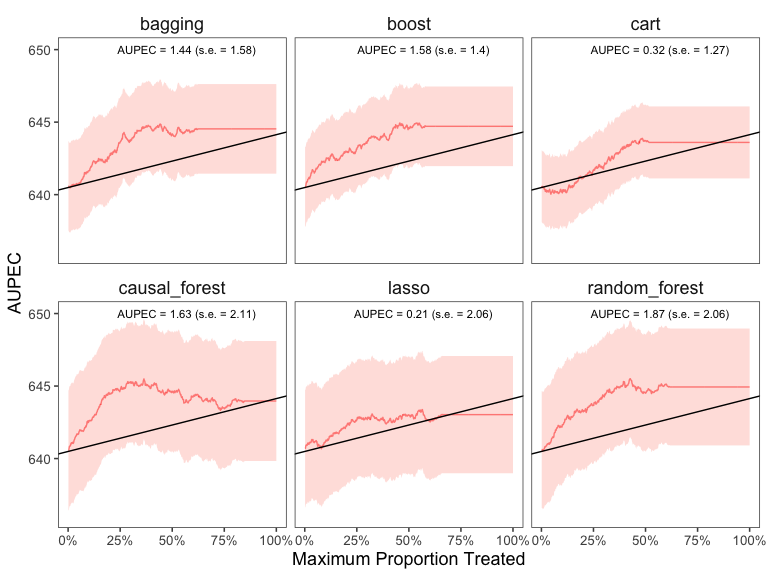
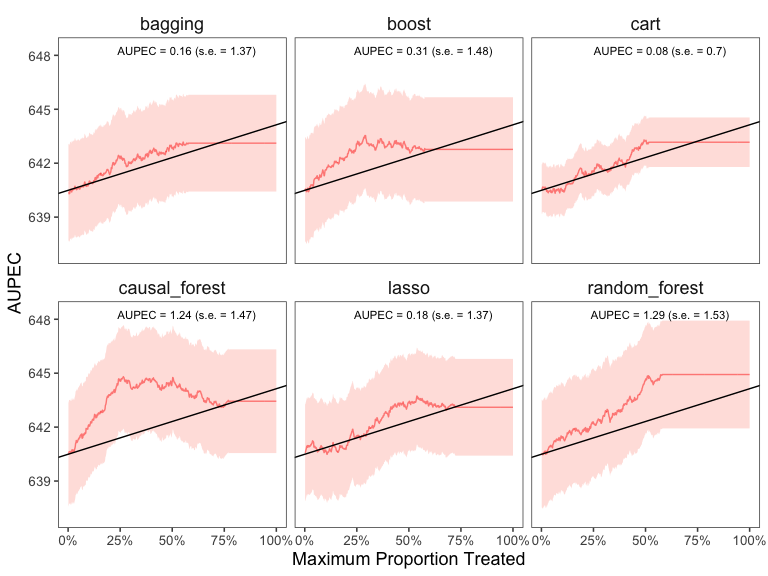
add package caret to existing structure

diff --git a/README.md b/README.md
@@ -48,8 +48,8 @@ will identify the top 20% of units who benefit from the treatment most
 and assign them to with the treatment. We train the model through sample
 splitting, with the `ratio` between the train and test sets determined
 by the ratio argument. Specifically, we allocate 70% of the data to
-train the model, while the remaining 30% is used as testing data (ratio
-= 0.7).
+train the model, while the remaining 30% is used as testing data
+(`ratio` = 0.7).
 
 ``` r
 library(tidyverse)
@@ -69,6 +69,7 @@ covariates <-  star %>% dplyr::select(-c("g3tlangss",
                 colnames()
 
 # estimate ITR 
+set.seed(2021)
 fit <- run_itr(outcome = outcomes,
                treatment = treatment,
                covariates = covariates,
@@ -77,6 +78,17 @@ fit <- run_itr(outcome = outcomes,
                plim = 0.2,
                ratio = 0.7)
 #> Evaluate ITR under sample splitting ...
+
+# alternatively (with caret package)
+# fit <- run_itr(outcome = outcomes,
+#                treatment = treatment,
+#                covariates = covariates,
+#                data = star_df,
+#                algorithms = c("caret"),
+#                plim = 0.2,
+#                ratio = 0.7,
+#               trainControl_method = "repeatedcv",
+#               train_method = "gbm")
 
 # evaluate ITR 
 est <- estimate_itr(fit)
@@ -100,26 +112,26 @@ design are given in [Imai and Li
 summary(est)
 #> ── PAPE ────────────────────────────────────────────────────────────────────────
 #>   estimate std.deviation     algorithm statistic p.value
-#> 1     0.56           1.4 causal_forest       0.4    0.69
+#> 1     0.78           1.4 causal_forest      0.57    0.57
 #> 
 #> ── PAPEp ───────────────────────────────────────────────────────────────────────
 #>   estimate std.deviation     algorithm statistic p.value
-#> 1      1.4           1.2 causal_forest       1.1    0.25
+#> 1      2.8           1.2 causal_forest       2.3   0.024
 #> 
 #> ── PAPDp ───────────────────────────────────────────────────────────────────────
 #> data frame with 0 columns and 0 rows
 #> 
 #> ── AUPEC ───────────────────────────────────────────────────────────────────────
 #>   estimate std.deviation     algorithm statistic p.value
-#> 1      1.2           1.1 causal_forest       1.2    0.24
+#> 1     0.58             1 causal_forest      0.56    0.58
 #> 
 #> ── GATE ────────────────────────────────────────────────────────────────────────
 #>   estimate std.deviation     algorithm group statistic p.value upper lower
-#> 1      -76           108 causal_forest     1     -0.70   0.483  -172   182
-#> 2     -219           107 causal_forest     2     -2.03   0.042  -171   182
-#> 3      160           108 causal_forest     3      1.49   0.137  -172   183
-#> 4      106           109 causal_forest     4      0.97   0.333  -175   185
-#> 5       55           107 causal_forest     5      0.51   0.608  -171   181
+#> 1     -192           106 causal_forest     1      -1.8   0.070  -168   182
+#> 2      184           109 causal_forest     2       1.7   0.092  -173   187
+#> 3      227           109 causal_forest     3       2.1   0.038  -172   186
+#> 4     -238           107 causal_forest     4      -2.2   0.026  -168   182
+#> 5       54           107 causal_forest     5       0.5   0.615  -170   184
 ```
 
 We plot the estimated Area Under the Prescriptive Effect Curve for the
@@ -142,6 +154,7 @@ folds to get a more stable model performance.
 
 ``` r
 # estimate ITR 
+set.seed(2021)
 fit_cv <- run_itr(outcome = outcomes,
                treatment = treatment,
                covariates = covariates,
@@ -163,26 +176,26 @@ We present the results with 3-folds cross validation and plot the AUPEC.
 summary(est_cv)
 #> ── PAPE ────────────────────────────────────────────────────────────────────────
 #>   estimate std.deviation     algorithm statistic p.value
-#> 1      1.1           1.3 causal_forest      0.89    0.37
+#> 1     0.72          0.87 causal_forest      0.82    0.41
 #> 
 #> ── PAPEp ───────────────────────────────────────────────────────────────────────
 #>   estimate std.deviation     algorithm statistic p.value
-#> 1      1.3          0.69 causal_forest       1.9   0.062
+#> 1      2.9          0.65 causal_forest       4.4 8.6e-06
 #> 
 #> ── PAPDp ───────────────────────────────────────────────────────────────────────
 #> data frame with 0 columns and 0 rows
 #> 
 #> ── AUPEC ───────────────────────────────────────────────────────────────────────
 #>   estimate std.deviation     algorithm statistic p.value
-#> 1      1.4          0.67 causal_forest       2.1   0.033
+#> 1      1.4           1.5 causal_forest      0.92    0.36
 #> 
 #> ── GATE ────────────────────────────────────────────────────────────────────────
 #>   estimate std.deviation     algorithm group statistic p.value upper lower
-#> 1       12            59 causal_forest     1      0.21    0.84   -93   101
-#> 2      -47            85 causal_forest     2     -0.55    0.58  -135   143
-#> 3       18            59 causal_forest     3      0.31    0.76   -94   101
-#> 4      -61           101 causal_forest     4     -0.61    0.55  -162   169
-#> 5       95           100 causal_forest     5      0.95    0.34  -162   169
+#> 1     -101            59 causal_forest     1     -1.71   0.087   -93   100
+#> 2       37            59 causal_forest     2      0.62   0.536   -94   101
+#> 3       39            59 causal_forest     3      0.67   0.506   -93   101
+#> 4       14            59 causal_forest     4      0.23   0.816   -94   101
+#> 5       29           101 causal_forest     5      0.29   0.773  -162   169
 ```
 
 ``` r
@@ -218,6 +231,7 @@ outcomes <- c("g3tlangss","g3treadss","g3tmathss")
 covariates <-  star %>% dplyr::select(-c("g3tlangss","g3treadss","g3tmathss","treatment")) %>% colnames()
 
 # train the model
+set.seed(2021)
 fit_cv <- run_itr(outcome = outcomes,
                treatment = "treatment",
                covariates = covariates,
@@ -233,7 +247,9 @@ fit_cv <- run_itr(outcome = outcomes,
                   "bagging"),
                plim = 0.2,
                n_folds = 3)
-#> Evaluate ITR with cross-validation ...Evaluate ITR with cross-validation ...Evaluate ITR with cross-validation ...
+#> Evaluate ITR with cross-validation ...
+#> Evaluate ITR with cross-validation ...
+#> Evaluate ITR with cross-validation ...
 ```
 
 ``` r
@@ -246,81 +262,81 @@ est_cv <- estimate_itr(fit_cv)
 summary(est_cv, outcome = "g3tlangss")
 #> ── PAPE ────────────────────────────────────────────────────────────────────────
 #>   estimate std.deviation     algorithm statistic p.value
-#> 1     0.88          1.08 causal_forest      0.81  0.4155
-#> 2     0.25          0.84         lasso      0.29  0.7696
-#> 3     2.24          0.87         boost      2.57  0.0102
-#> 4     2.28          0.80 random_forest      2.86  0.0043
-#> 5     1.24          0.92          cart      1.34  0.1790
-#> 6     1.86          1.26       bagging      1.48  0.1383
+#> 1     0.24          1.02 causal_forest      0.24   0.812
+#> 2     0.17          1.07         lasso      0.16   0.871
+#> 3     0.30          1.35         boost      0.23   0.822
+#> 4     2.37          1.01 random_forest      2.34   0.019
+#> 5     0.85          0.98          cart      0.87   0.382
+#> 6     0.59          0.99       bagging      0.59   0.555
 #> 
 #> ── PAPEp ───────────────────────────────────────────────────────────────────────
 #>   estimate std.deviation     algorithm statistic p.value
-#> 1     3.17          0.74 causal_forest      4.29 1.8e-05
-#> 2     0.95          0.99         lasso      0.96 3.4e-01
-#> 3     1.67          0.79         boost      2.11 3.5e-02
-#> 4     1.93          0.78 random_forest      2.48 1.3e-02
-#> 5    -0.15          0.88          cart     -0.17 8.7e-01
-#> 6     1.41          0.78       bagging      1.80 7.1e-02
+#> 1     2.62          0.65 causal_forest      4.05 5.1e-05
+#> 2    -0.20          0.63         lasso     -0.33 7.4e-01
+#> 3     1.18          0.63         boost      1.87 6.2e-02
+#> 4     0.58          0.84 random_forest      0.69 4.9e-01
+#> 5     0.27          0.62          cart      0.44 6.6e-01
+#> 6     0.22          1.15       bagging      0.19 8.5e-01
 #> 
 #> ── PAPDp ───────────────────────────────────────────────────────────────────────
 #>    estimate std.deviation                     algorithm statistic p.value
-#> 1      2.22          0.93         causal_forest x lasso      2.38   0.017
-#> 2      1.50          0.75         causal_forest x boost      1.98   0.047
-#> 3      1.24          0.62 causal_forest x random_forest      2.00   0.045
-#> 4      3.31          1.35          causal_forest x cart      2.46   0.014
-#> 5      1.76          0.71       causal_forest x bagging      2.47   0.014
-#> 6     -0.72          0.73                 lasso x boost     -0.99   0.320
-#> 7     -0.98          1.20         lasso x random_forest     -0.82   0.411
-#> 8      1.09          1.02                  lasso x cart      1.07   0.283
-#> 9     -0.46          0.81               lasso x bagging     -0.57   0.570
-#> 10    -0.26          0.76         boost x random_forest     -0.34   0.732
-#> 11     1.82          1.57                  boost x cart      1.16   0.248
-#> 12     0.26          1.09               boost x bagging      0.24   0.810
-#> 13     2.08          0.96          random_forest x cart      2.16   0.031
-#> 14     0.52          0.50       random_forest x bagging      1.04   0.298
-#> 15    -1.55          1.21                cart x bagging     -1.29   0.197
+#> 1     2.824          0.96         causal_forest x lasso     2.937 0.00331
+#> 2     1.437          0.75         causal_forest x boost     1.928 0.05391
+#> 3     2.045          0.87 causal_forest x random_forest     2.341 0.01925
+#> 4     2.347          0.88          causal_forest x cart     2.673 0.00752
+#> 5     2.400          0.70       causal_forest x bagging     3.409 0.00065
+#> 6    -1.387          1.09                 lasso x boost    -1.275 0.20220
+#> 7    -0.779          0.81         lasso x random_forest    -0.965 0.33472
+#> 8    -0.478          0.89                  lasso x cart    -0.536 0.59211
+#> 9    -0.424          0.88               lasso x bagging    -0.484 0.62841
+#> 10    0.608          0.74         boost x random_forest     0.817 0.41401
+#> 11    0.910          0.89                  boost x cart     1.024 0.30601
+#> 12    0.963          0.68               boost x bagging     1.409 0.15869
+#> 13    0.302          0.94          random_forest x cart     0.322 0.74776
+#> 14    0.355          0.51       random_forest x bagging     0.695 0.48723
+#> 15    0.054          1.19                cart x bagging     0.045 0.96388
 #> 
 #> ── AUPEC ───────────────────────────────────────────────────────────────────────
 #>   estimate std.deviation     algorithm statistic p.value
-#> 1     1.63           2.1 causal_forest      0.77    0.44
-#> 2     0.21           2.1         lasso      0.10    0.92
-#> 3     1.58           1.4         boost      1.13    0.26
-#> 4     1.87           2.1 random_forest      0.91    0.36
-#> 5     0.32           1.3          cart      0.25    0.80
-#> 6     1.44           1.6       bagging      0.91    0.36
+#> 1    1.238           1.5 causal_forest      0.84    0.40
+#> 2    0.178           1.4         lasso      0.13    0.90
+#> 3    0.309           1.5         boost      0.21    0.83
+#> 4    1.294           1.5 random_forest      0.85    0.40
+#> 5    0.076           0.7          cart      0.11    0.91
+#> 6    0.163           1.4       bagging      0.12    0.91
 #> 
 #> ── GATE ────────────────────────────────────────────────────────────────────────
 #>    estimate std.deviation     algorithm group statistic p.value upper lower
-#> 1    -58.28           102 causal_forest     1   -0.5728    0.57  -164   171
-#> 2     25.77            65 causal_forest     2    0.3995    0.69  -103   110
-#> 3      0.42            96 causal_forest     3    0.0044    1.00  -154   161
-#> 4     13.23            91 causal_forest     4    0.1454    0.88  -146   153
-#> 5     36.75            82 causal_forest     5    0.4468    0.66  -132   139
-#> 6     70.69            60         lasso     1    1.1850    0.24   -95   102
-#> 7    -60.90            91         lasso     2   -0.6728    0.50  -145   152
-#> 8     31.06            82         lasso     3    0.3773    0.71  -132   139
-#> 9     18.39            70         lasso     4    0.2625    0.79  -112   119
-#> 10   -41.34            59         lasso     5   -0.7021    0.48   -93   100
-#> 11   -43.17           101         boost     1   -0.4263    0.67  -163   170
-#> 12    32.56            99         boost     2    0.3305    0.74  -158   166
-#> 13    24.62            61         boost     3    0.4046    0.69   -97   104
-#> 14   -18.88            74         boost     4   -0.2538    0.80  -119   126
-#> 15    22.75            71         boost     5    0.3195    0.75  -114   121
-#> 16    18.73           100 random_forest     1    0.1877    0.85  -160   168
-#> 17   -42.93           102 random_forest     2   -0.4212    0.67  -164   171
-#> 18   -43.44            97 random_forest     3   -0.4457    0.66  -157   164
-#> 19    34.48            59 random_forest     4    0.5846    0.56   -93   101
-#> 20    51.05            69 random_forest     5    0.7453    0.46  -109   116
-#> 21    11.35            70          cart     1    0.1615    0.87  -112   119
-#> 22    63.04            86          cart     2    0.7312    0.46  -138   145
-#> 23  -111.37            90          cart     3   -1.2328    0.22  -145   152
-#> 24   115.84            74          cart     4    1.5710    0.12  -118   125
-#> 25   -60.97            91          cart     5   -0.6721    0.50  -146   153
-#> 26   -40.71            92       bagging     1   -0.4436    0.66  -147   155
-#> 27    13.76            68       bagging     2    0.2027    0.84  -108   115
-#> 28   -23.53            81       bagging     3   -0.2905    0.77  -130   137
-#> 29    73.95           100       bagging     4    0.7364    0.46  -162   169
-#> 30    -5.58            65       bagging     5   -0.0865    0.93  -103   110
+#> 1    -90.56            59 causal_forest     1   -1.5372   0.124   -93   101
+#> 2     60.95            59 causal_forest     2    1.0267   0.305   -94   101
+#> 3     -7.06            59 causal_forest     3   -0.1196   0.905   -93   101
+#> 4     34.23            68 causal_forest     4    0.5066   0.612  -108   115
+#> 5     20.65            97 causal_forest     5    0.2125   0.832  -156   164
+#> 6    -14.41            94         lasso     1   -0.1539   0.878  -150   158
+#> 7    -87.34            88         lasso     2   -0.9943   0.320  -141   148
+#> 8     80.72            98         lasso     3    0.8251   0.409  -157   165
+#> 9     12.60            59         lasso     4    0.2145   0.830   -93   100
+#> 10    26.64            59         lasso     5    0.4512   0.652   -93   101
+#> 11     0.73            82         boost     1    0.0089   0.993  -132   139
+#> 12   -33.78            59         boost     2   -0.5691   0.569   -94   101
+#> 13   -44.09            84         boost     3   -0.5231   0.601  -135   142
+#> 14    81.86            96         boost     4    0.8510   0.395  -155   162
+#> 15    13.48            59         boost     5    0.2279   0.820   -94   101
+#> 16   -12.61            59 random_forest     1   -0.2134   0.831   -94   101
+#> 17    36.26            87 random_forest     2    0.4161   0.677  -140   147
+#> 18   -94.79            97 random_forest     3   -0.9807   0.327  -155   163
+#> 19    78.42            59 random_forest     4    1.3344   0.182   -93   100
+#> 20    10.94            59 random_forest     5    0.1844   0.854   -94   101
+#> 21    38.85            78          cart     1    0.4951   0.621  -125   133
+#> 22    21.94            59          cart     2    0.3724   0.710   -93   101
+#> 23   -77.78            92          cart     3   -0.8433   0.399  -148   155
+#> 24   -20.95            92          cart     4   -0.2278   0.820  -148   155
+#> 25    56.15            98          cart     5    0.5746   0.566  -157   164
+#> 26    63.37            59       bagging     1    1.0694   0.285   -94   101
+#> 27   -43.95            94       bagging     2   -0.4679   0.640  -151   158
+#> 28   -39.78           102       bagging     3   -0.3895   0.697  -164   172
+#> 29    97.10            59       bagging     4    1.6551   0.098   -93   100
+#> 30   -58.53            59       bagging     5   -0.9882   0.323   -94   101
 ```
 
 We plot the estimated Area Under the Prescriptive Effect Curve for the
